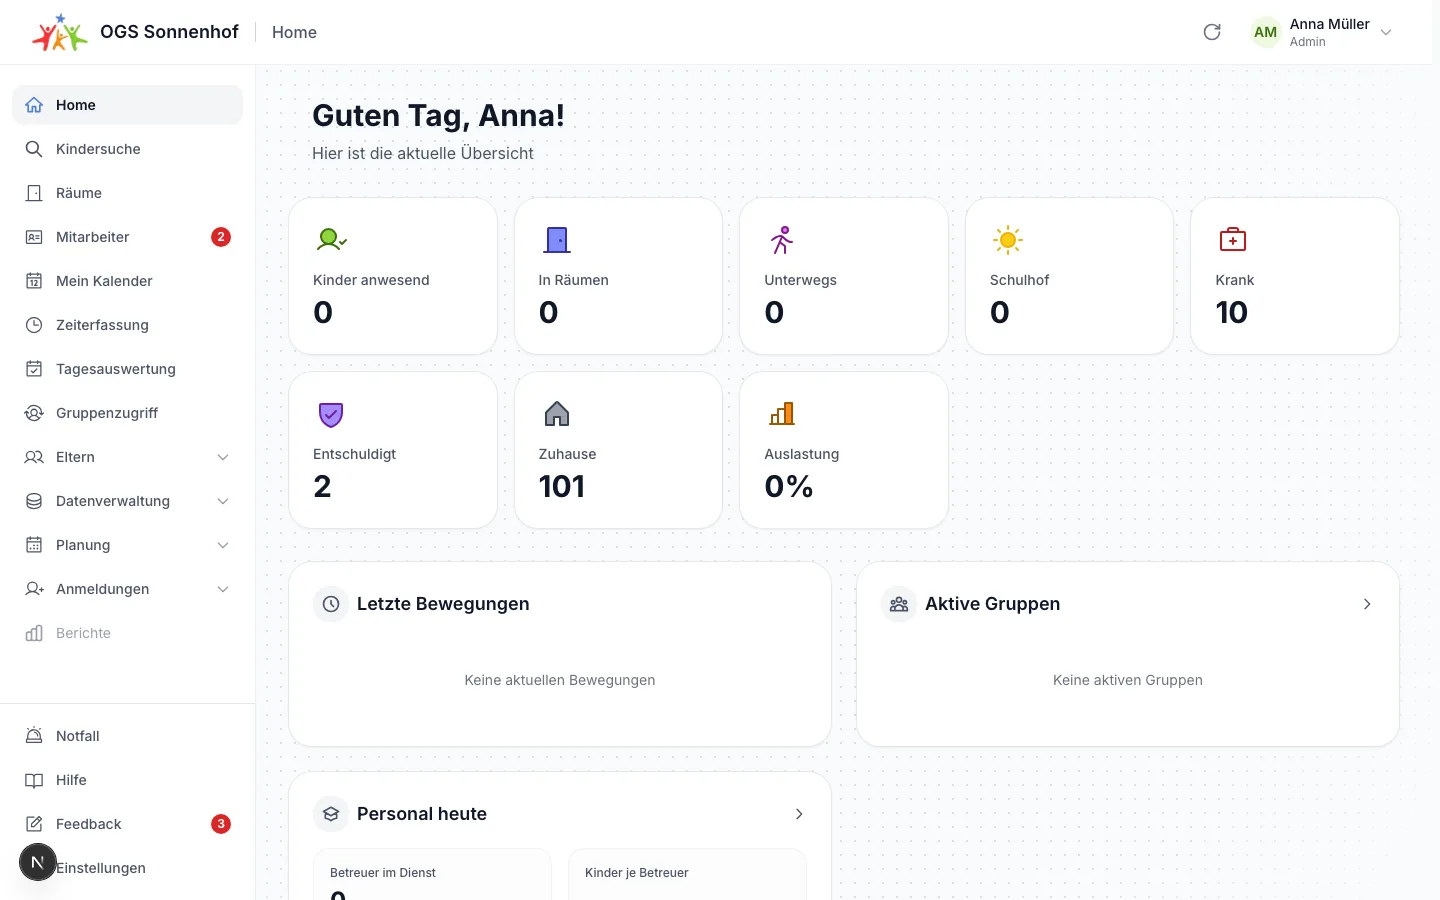
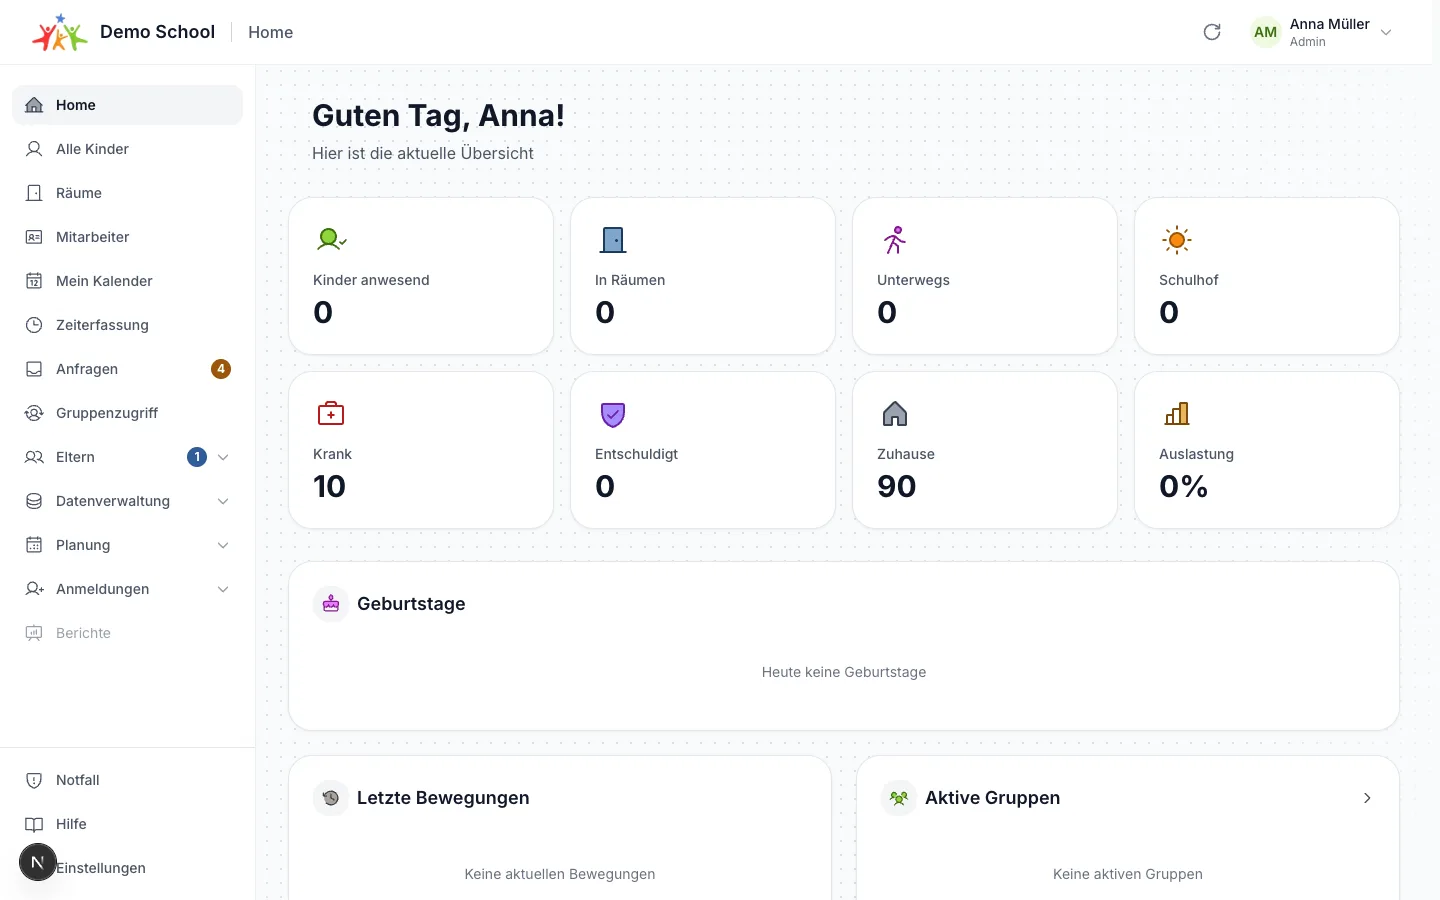
fix: remove misleading dashboard staffing metrics

diff --git a/frontend/src/app/[tenant]/(protected)/dashboard/page.test.tsx b/frontend/src/app/[tenant]/(protected)/dashboard/page.test.tsx
@@ -209,8 +209,7 @@ describe("DashboardPage", () => {
       expect(screen.getByText("4")).toBeInTheDocument(); // studentsSick
       expect(screen.getByText("3")).toBeInTheDocument(); // studentsExcused
       expect(screen.getByText("33")).toBeInTheDocument(); // studentsHome
-      // 10 appears multiple times (studentsOnPlayground and supervisorsToday)
-      expect(screen.getAllByText("10")).toHaveLength(2);
+      expect(screen.getByText("10")).toBeInTheDocument(); // studentsOnPlayground
     });
   });
 
@@ -247,12 +246,13 @@ describe("DashboardPage", () => {
       expect(screen.getByText("Letzte Bewegungen")).toBeInTheDocument();
       expect(screen.getByText("Laufende Aktivitäten")).toBeInTheDocument();
       expect(screen.getByText("Aktive Gruppen")).toBeInTheDocument();
-      expect(screen.getByText("Personal heute")).toBeInTheDocument();
+      expect(screen.queryByText("Personal heute")).not.toBeInTheDocument();
+      expect(screen.queryByText("Kinder je Betreuer")).not.toBeInTheDocument();
       expect(screen.getByTestId("dashboard-stats-grid")).toHaveClass(
         "xl:grid-cols-4",
       );
       expect(screen.getByTestId("dashboard-info-grid")).toHaveClass(
-        "xl:grid-cols-4",
+        "xl:grid-cols-3",
       );
     });
   });
@@ -268,7 +268,7 @@ describe("DashboardPage", () => {
         screen.queryByRole("link", { name: /Aktive Gruppen/i }),
       ).not.toBeInTheDocument();
       expect(screen.getByText("Kinder anwesend")).toBeInTheDocument();
-      expect(screen.getByText("Personal heute")).toBeInTheDocument();
+      expect(screen.queryByText("Personal heute")).not.toBeInTheDocument();
     });
   });
 
@@ -287,9 +287,9 @@ describe("DashboardPage", () => {
       ).not.toBeInTheDocument();
       expect(screen.getByText("Aktive Gruppen")).toBeInTheDocument();
       expect(screen.queryByText("Freie Räume")).not.toBeInTheDocument();
-      expect(screen.getByText("Personal heute")).toBeInTheDocument();
+      expect(screen.queryByText("Personal heute")).not.toBeInTheDocument();
       expect(screen.getByTestId("dashboard-info-grid")).toHaveClass(
-        "xl:grid-cols-3",
+        "xl:grid-cols-2",
       );
     });
   });
@@ -314,33 +314,10 @@ describe("DashboardPage", () => {
       expect(screen.queryByText("Auslastung")).not.toBeInTheDocument();
       expect(screen.queryByText("Letzte Bewegungen")).not.toBeInTheDocument();
       expect(screen.getByText("Aktive Gruppen")).toBeInTheDocument();
-      expect(screen.getByText("Personal heute")).toBeInTheDocument();
+      expect(screen.queryByText("Personal heute")).not.toBeInTheDocument();
       expect(screen.getByTestId("dashboard-info-grid")).toHaveClass(
-        "xl:grid-cols-2",
+        "xl:grid-cols-1",
       );
-    });
-  });
-
-  it("expands the staff summary when it is the only dashboard info card", async () => {
-    vi.mocked(usePresenceMode).mockReturnValue("binary");
-    vi.mocked(useOpenCareGroupMode).mockReturnValue(true);
-
-    render(<DashboardPage />);
-
-    await waitFor(() => {
-      const staffSummary = screen.getByRole("link", {
-        name: /Personal heute/i,
-      });
-      expect(staffSummary.parentElement).toHaveClass("lg:col-span-2");
-      expect(staffSummary).toHaveClass("h-full");
-    });
-  });
-
-  it("displays supervisor count", async () => {
-    render(<DashboardPage />);
-
-    await waitFor(() => {
-      expect(screen.getByText("Betreuer im Dienst")).toBeInTheDocument();
     });
   });
 
@@ -457,14 +434,16 @@ describe("DashboardContent rendering states", () => {
     });
   });
 
-  it("displays student ratio when supervisors are present", async () => {
+  it("does not display personnel metrics based on daily supervision", async () => {
     vi.mocked(useSWRAuth).mockReturnValue(mockSWR(mockDashboardData));
 
     render(<DashboardPage />);
 
     await waitFor(() => {
-      expect(screen.getByText("Kinder je Betreuer")).toBeInTheDocument();
-      expect(screen.getByText("Betreuungsschlüssel")).toBeInTheDocument();
+      expect(screen.queryByText("Personal heute")).not.toBeInTheDocument();
+      expect(screen.queryByText("Betreuer im Dienst")).not.toBeInTheDocument();
+      expect(screen.queryByText("Kinder je Betreuer")).not.toBeInTheDocument();
+      expect(screen.queryByText("Betreuungsschlüssel")).not.toBeInTheDocument();
     });
   });
 
@@ -484,30 +463,6 @@ describe("DashboardContent rendering states", () => {
     await waitFor(() => {
       // Should show "John" (first part of "John Doe")
       expect(screen.getByText(/John/)).toBeInTheDocument();
-    });
-  });
-
-  it("shows dash for student ratio when no supervisors", async () => {
-    vi.mocked(useSWRAuth).mockReturnValue(
-      mockSWR({ ...mockDashboardData, supervisorsToday: 0 }),
-    );
-
-    render(<DashboardPage />);
-
-    await waitFor(() => {
-      expect(screen.getByText("Keine Daten")).toBeInTheDocument();
-    });
-  });
-
-  it("shows dash for student ratio when no students present", async () => {
-    vi.mocked(useSWRAuth).mockReturnValue(
-      mockSWR({ ...mockDashboardData, studentsPresent: 0 }),
-    );
-
-    render(<DashboardPage />);
-
-    await waitFor(() => {
-      expect(screen.getByText("Keine Daten")).toBeInTheDocument();
     });
   });
 
@@ -755,7 +710,6 @@ describe("InfoCard component behavior", () => {
       ["Letzte Bewegungen", "stone"],
       ["Laufende Aktivitäten", "coral"],
       ["Aktive Gruppen", "greenDeep"],
-      ["Personal heute", "orange"],
     ] as const;
 
     for (const [title, tone] of expectedTones) {
@@ -767,15 +721,6 @@ describe("InfoCard component behavior", () => {
         tone,
       );
     }
-  });
-
-  it("renders staff info card with link to staff page", async () => {
-    render(<DashboardPage />);
-
-    await waitFor(() => {
-      const staffLink = screen.getByRole("link", { name: /Personal heute/i });
-      expect(staffLink).toHaveAttribute("href", "/staff");
-    });
   });
 });
 

diff --git a/frontend/src/app/[tenant]/(protected)/dashboard/page.tsx b/frontend/src/app/[tenant]/(protected)/dashboard/page.tsx
@@ -166,20 +166,16 @@ function DashboardContent() {
   const presenceMode = usePresenceMode();
   const showActivitySurfaces = nfcEnabled && presenceMode !== "binary";
   const showRoomSurfaces = presenceMode !== "binary";
-  const showOnlyStaffSummary = presenceMode === "binary" && openCareGroupMode;
   const infoCardCount =
     Number(showRoomSurfaces) +
     Number(showActivitySurfaces) +
-    Number(!openCareGroupMode) +
-    1;
+    Number(!openCareGroupMode);
   const infoGridColumns =
-    infoCardCount >= 4
-      ? "xl:grid-cols-4"
-      : infoCardCount === 3
-        ? "xl:grid-cols-3"
-        : infoCardCount === 2
-          ? "xl:grid-cols-2"
-          : "xl:grid-cols-1";
+    infoCardCount === 3
+      ? "xl:grid-cols-3"
+      : infoCardCount === 2
+        ? "xl:grid-cols-2"
+        : "xl:grid-cols-1";
   const { data: session, status } = useSession({
     required: true,
     onUnauthenticated() {
@@ -564,70 +560,6 @@ function DashboardContent() {
             })()}
           </InfoCard>
         ) : null}
-
-        {/* Betreuer Summary */}
-        <div
-          className={
-            showOnlyStaffSummary ? "lg:col-span-2 xl:col-span-1" : undefined
-          }
-        >
-          <InfoCard title="Personal heute" concept="staff" href="/staff">
-            {isLoading ? (
-              // Mirrors the loaded 2-column stat grid: same tile surface,
-              // label line over a large value line.
-              <div className="grid grid-cols-2 gap-4" aria-hidden="true">
-                {[1, 2].map((i) => (
-                  <div
-                    key={i}
-                    className="rounded-xl border border-gray-200/50 bg-gray-50/50 p-4"
-                  >
-                    <div className="mb-2 h-3 w-24 animate-pulse rounded bg-gray-200"></div>
-                    <div className="h-7 w-12 animate-pulse rounded bg-gray-200"></div>
-                  </div>
-                ))}
-              </div>
-            ) : (
-              <div className="grid grid-cols-2 gap-4">
-                <div className="rounded-xl border border-gray-200/50 bg-gray-50/50 p-4 transition-colors hover:bg-gray-100/50">
-                  <p className="mb-1 text-xs font-medium text-gray-600">
-                    Betreuer im Dienst
-                  </p>
-                  <p className="text-2xl font-bold text-gray-900">
-                    {dashboardData?.supervisorsToday ?? 0}
-                  </p>
-                </div>
-                {dashboardData &&
-                dashboardData.studentsPresent > 0 &&
-                dashboardData.supervisorsToday > 0 ? (
-                  <div className="rounded-xl border border-gray-200/50 bg-gray-50/50 p-4 transition-colors hover:bg-gray-100/50">
-                    <p className="mb-1 text-xs font-medium text-gray-600">
-                      Kinder je Betreuer
-                    </p>
-                    <p className="text-2xl font-bold text-gray-900">
-                      {dashboardData.supervisorsToday > 0
-                        ? Math.round(
-                            dashboardData.studentsPresent /
-                              dashboardData.supervisorsToday,
-                          )
-                        : "-"}
-                    </p>
-                    <p className="mt-1 text-xs text-gray-500">
-                      Betreuungsschlüssel
-                    </p>
-                  </div>
-                ) : (
-                  <div className="rounded-xl border border-gray-200/50 bg-gray-50/50 p-4">
-                    <p className="mb-1 text-xs font-medium text-gray-600">
-                      Kinder je Betreuer
-                    </p>
-                    <p className="text-2xl font-bold text-gray-400">-</p>
-                    <p className="mt-1 text-xs text-gray-500">Keine Daten</p>
-                  </div>
-                )}
-              </div>
-            )}
-          </InfoCard>
-        </div>
       </div>
     </div>
   );
